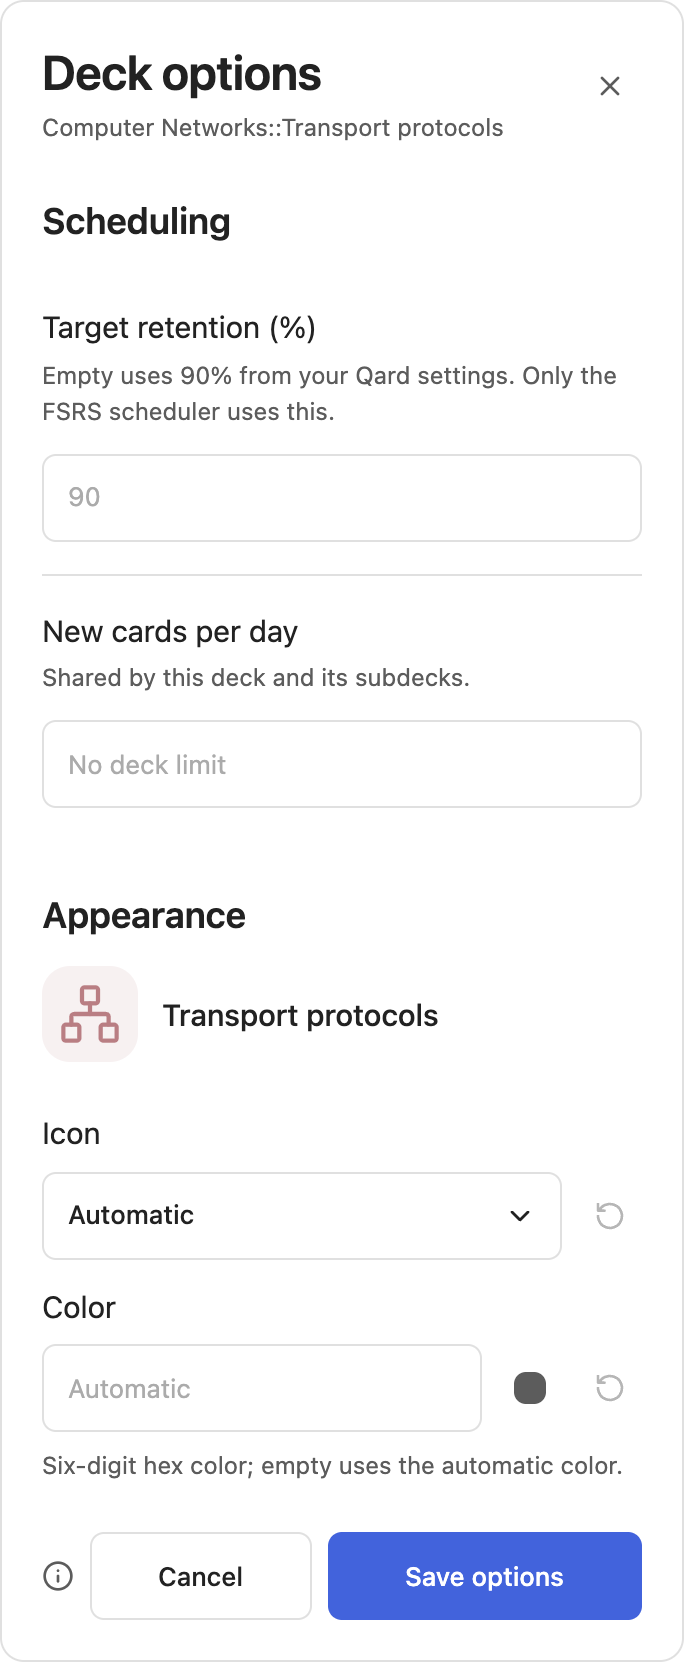
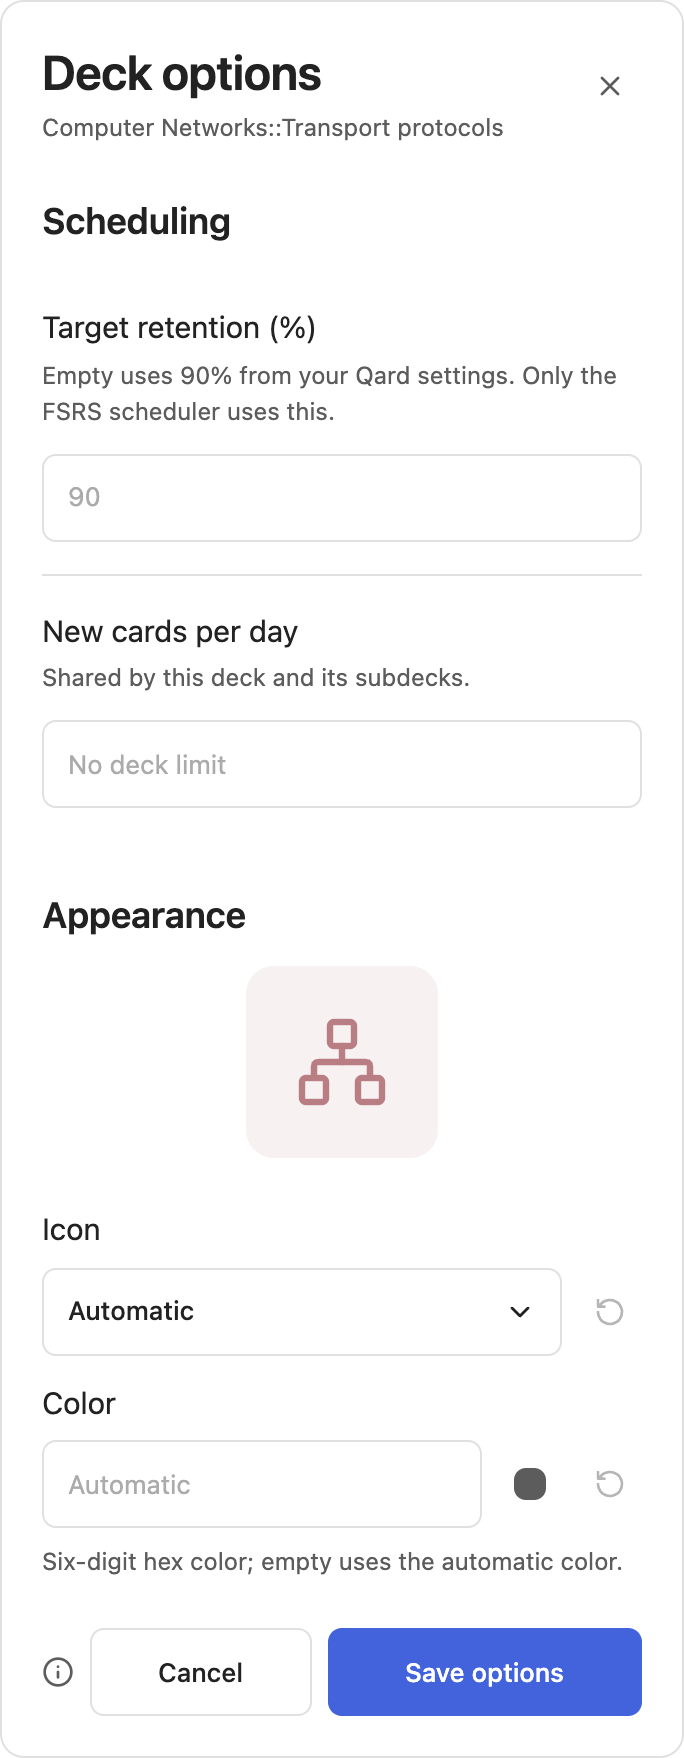
Refresh larger badge-only preview screenshots

diff --git a/docs/images/ui-main-latest/audit-report.md b/docs/images/ui-main-latest/audit-report.md
@@ -1,3 +1,12 @@
+# Larger badge-only appearance preview
+
+#10 `3fd762093727d3d6be99789c748e8e12de8240ea` → #17 `f9d711275a2366b5ea9916e31bcc7c6e67878a3c`.
+
+- Preview contains only DeckBadge. The deck name remains in the settings header. Desktop badge fills the160px preview column; mobile uses a centered96px square.
+- Subject SVGs, custom registered SVGs and monogram fallbacks scale with the enlarged badge. Removed obsolete name/row-layout styles.
+-57focused cases pass across both branches(28base/29UI), with typecheck, formatting, source/CSS lint, build and release checks.14responsive/theme cases pass, including badge-only DOM, square badge sizing, preview order, hierarchy, dropdown fit and selection/reset. No tests added.
+- Refreshed settings comparisons and in-branch guide screenshots in both PRs. Main baselines unchanged;52pairs in#17 and2in#10. Isolated test build updated; protected files unchanged.
+
 # Remove duplicate appearance decoration
 
 #10 `f5b656a1f38f5e75a2b988ae08981264d29281bb` → #17 `a16bf0d828524a00c75185d26907e767a0472040`.
